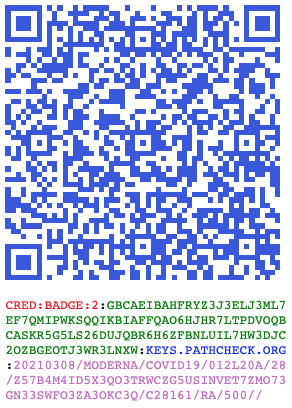
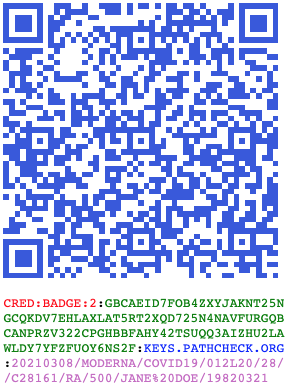
Updated Demo QR on Readme

diff --git a/README.md b/README.md
@@ -1,5 +1,5 @@
 # Paper-first Verifiable Credentials URI Specification
-<img align="right" src="demo_qr.png" data-canonical-src="demo_qr.png" width="292px" title="Signed Verifiable Credential"/>
+<img align="right" src="demo_qr.png" data-canonical-src="demo_qr.png" width="288px" title="Signed Verifiable Credential"/>
 
 **© 2021 PathCheck Foundation**<br/>
 Authors: [Justin Dossey](mailto:justin.dossey@pathcheck.org) and [Vitor Pamplona](vitor.pamplona@pathcheck.org)<br/>
@@ -131,7 +131,7 @@ not included in the Alphanumeric QR character set. As a result, those characters
 MUST also be percent encoded. 
 
 <details>
-  <summary>Show me which characters need encoding?</summary>
+  <summary>Show me which characters need encoding</summary>
 
 ### Which Characters Need Encoding?
 
